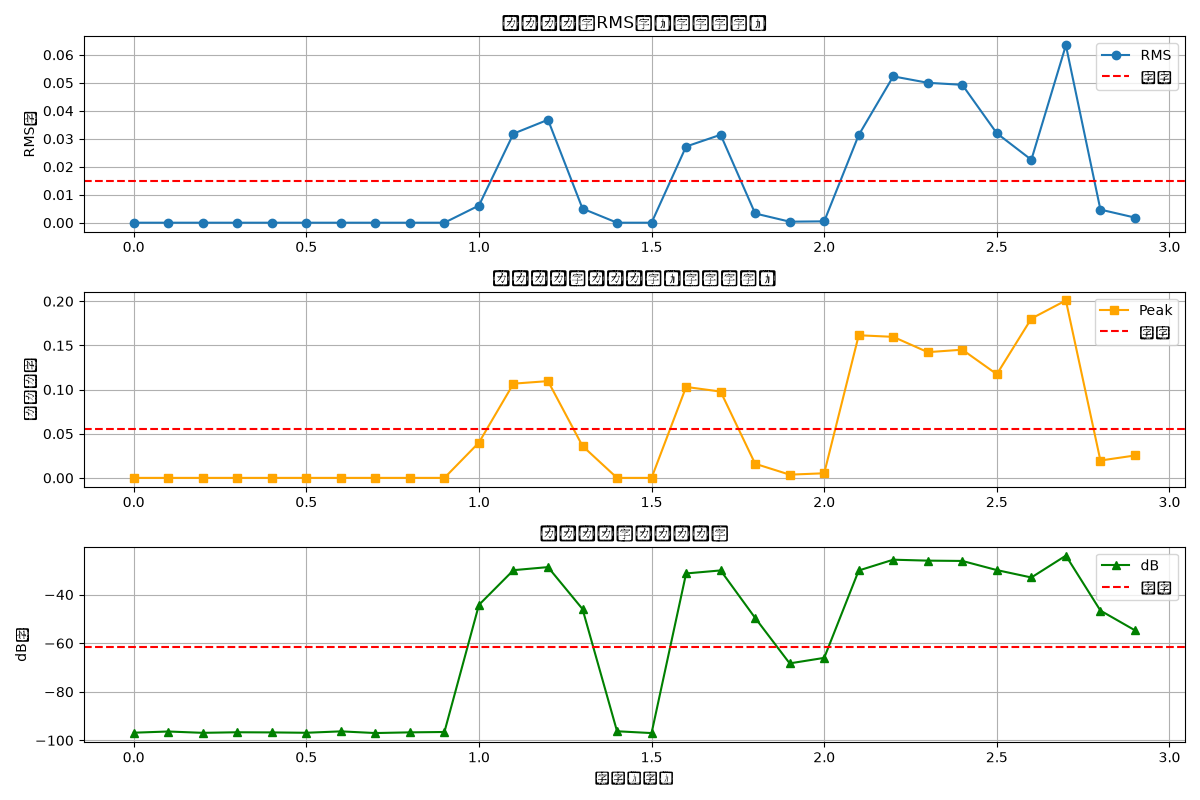
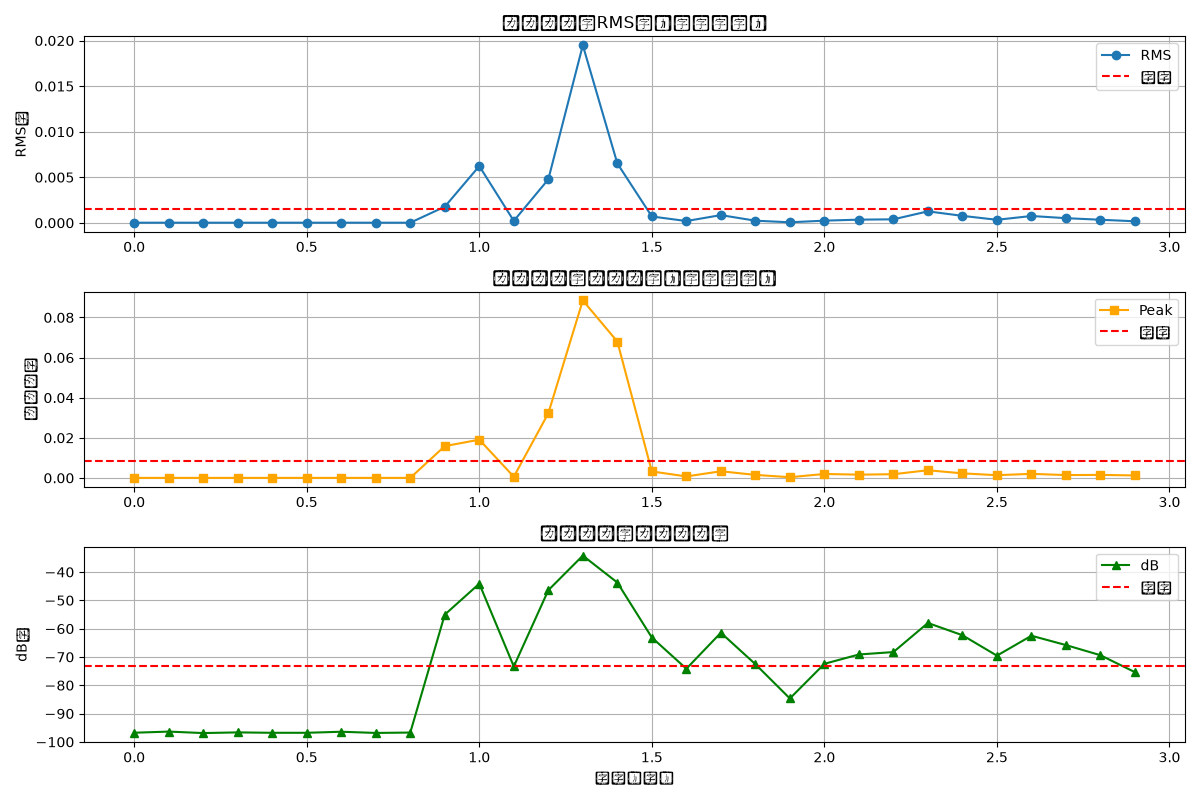
refactor(script): measure_audio_level.py の変数スコープエラー修正とログ追加

diff --git a/script/measure_audio_level.py b/script/measure_audio_level.py
@@ -5,6 +5,10 @@ import numpy as np
 import sounddevice as sd
 import soundfile as sf
 
+from pathlib import Path
+import sys
+sys.path.append(str(Path(__file__).resolve().parent.parent))
+
 from config import DEFAULT_AUDIO_CONFIG
 
 logger = logging.getLogger(__name__)
@@ -60,143 +64,133 @@ def main() -> None:
     sf.write(AUDIO_FILE, y, SR)
     logger.info("📁 録音ファイルを保存: %s", AUDIO_FILE)
 
-# ==========================
-# フレームごとの音量計算
-# ==========================
+    # ==========================
+    # フレームごとの音量計算
+    # ==========================
 
-print("=" * 60)
-print("フレーム別の音量レベル")
-print("=" * 60)
+    print("=" * 60)
+    print("フレーム別の音量レベル")
+    print("=" * 60)
 
-frame_volumes = []
-frame_peaks = []
-frame_dbs = []
+    frame_volumes = []
+    frame_peaks = []
+    frame_dbs = []
 
-for i in range(0, len(y), CHUNK_SIZE):
-    chunk = y[i : i + CHUNK_SIZE]
+    for i in range(0, len(y), CHUNK_SIZE):
+        chunk = y[i : i + CHUNK_SIZE]
 
-    if len(chunk) == 0:
-        continue
+        if len(chunk) == 0:
+            continue
 
-    # ピーク値（最大振幅）
-    peak = np.max(np.abs(chunk))
+        # ピーク値（最大振幅）
+        peak = np.max(np.abs(chunk))
 
-    # RMS（二乗平均平方根）
-    rms = np.sqrt(np.mean(chunk**2))
+        # RMS（二乗平均平方根）
+        rms = np.sqrt(np.mean(chunk**2))
 
-    # デシベル値（最大値を基準）
-    db = 20 * np.log10(rms + 1e-10)
+        # デシベル値（最大値を基準）
+        db = 20 * np.log10(rms + 1e-10)
 
-    frame_volumes.append(rms)
-    frame_peaks.append(peak)
-    frame_dbs.append(db)
+        frame_volumes.append(rms)
+        frame_peaks.append(peak)
+        frame_dbs.append(db)
 
-    time_sec = i / SR
+        time_sec = i / SR
 
-    print(f"[{time_sec:5.2f}s] RMS: {rms:.4f}  Peak: {peak:.4f}  dB: {db:7.2f}")
+        print(f"[{time_sec:5.2f}s] RMS: {rms:.4f}  Peak: {peak:.4f}  dB: {db:7.2f}")
 
-# ==========================
-# 統計情報
-# ==========================
+    # ==========================
+    # 統計情報
+    # ==========================
 
-print("\n" + "=" * 60)
-print("統計情報（全体）")
-print("=" * 60)
+    print("\n" + "=" * 60)
+    print("統計情報（全体）")
+    print("=" * 60)
 
-print(f"\n【RMS値（平均音量）】")
-print(f"  平均: {np.mean(frame_volumes):.4f}")
-print(f"  最大: {np.max(frame_volumes):.4f}")
-print(f"  最小: {np.min(frame_volumes):.4f}")
-print(f"  標準偏差: {np.std(frame_volumes):.4f}")
+    print(f"\n【RMS値（平均音量）】")
+    print(f"  平均: {np.mean(frame_volumes):.4f}")
+    print(f"  最大: {np.max(frame_volumes):.4f}")
+    print(f"  最小: {np.min(frame_volumes):.4f}")
+    print(f"  標準偏差: {np.std(frame_volumes):.4f}")
 
-print(f"\n【ピーク値（最大振幅）】")
-print(f"  平均: {np.mean(frame_peaks):.4f}")
-print(f"  最大: {np.max(frame_peaks):.4f}")
-print(f"  最小: {np.min(frame_peaks):.4f}")
+    print(f"\n【ピーク値（最大振幅）】")
+    print(f"  平均: {np.mean(frame_peaks):.4f}")
+    print(f"  最大: {np.max(frame_peaks):.4f}")
+    print(f"  最小: {np.min(frame_peaks):.4f}")
 
-print(f"\n【デシベル値】")
-print(f"  平均: {np.mean(frame_dbs):.2f} dB")
-print(f"  最大: {np.max(frame_dbs):.2f} dB")
-print(f"  最小: {np.min(frame_dbs):.2f} dB")
+    print(f"\n【デシベル値】")
+    print(f"  平均: {np.mean(frame_dbs):.2f} dB")
+    print(f"  最大: {np.max(frame_dbs):.2f} dB")
+    print(f"  最小: {np.min(frame_dbs):.2f} dB")
 
-# ==========================
-# 無音判定の推奨値
-# ==========================
+    # ==========================
+    # 無音判定の推奨値
+    # ==========================
 
-print("\n" + "=" * 60)
-print("推奨されるしきい値（TOP_DB設定値）")
-print("=" * 60)
+    print("\n" + "=" * 60)
+    print("推奨されるしきい値（TOP_DB設定値）")
+    print("=" * 60)
 
-# 最小RMSの1.5倍を目安
-silence_threshold_rms = np.min(frame_volumes) * 1.5
-# デシベル値に変換
-silence_threshold_db = 20 * np.log10(silence_threshold_rms + 1e-10)
+    # 最小RMSの1.5倍を目安
+    silence_threshold_rms = np.min(frame_volumes) * 1.5
+    # デシベル値に変換
+    silence_threshold_db = 20 * np.log10(silence_threshold_rms + 1e-10)
 
-print(f"\n無音と判定する基準:")
-print(f"  現在の最小RMS値: {np.min(frame_volumes):.4f}")
-print(f"  推奨RMS値: {silence_threshold_rms:.4f}")
-print(f"  推奨TOP_DB値: {silence_threshold_db:.2f} dB")
+    print(f"\n無音と判定する基準:")
+    print(f"  現在の最小RMS値: {np.min(frame_volumes):.4f}")
+    print(f"  推奨RMS値: {silence_threshold_rms:.4f}")
+    print(f"  推奨TOP_DB値: {silence_threshold_db:.2f} dB")
 
-print(f"\n（現在のpreprocess.pyでは TOP_DB = 20 に設定されています）")
+    # ==========================
+    # グラフ描画
+    # ==========================
 
-# ==========================
-# グラフ描画
-# ==========================
+    try:
+        import matplotlib.pyplot as plt
 
-try:
-    import matplotlib.pyplot as plt
+        fig, axes = plt.subplots(3, 1, figsize=(12, 8))
 
-    fig, axes = plt.subplots(3, 1, figsize=(12, 8))
+        time_axis = np.arange(len(frame_volumes)) * (CHUNK_SIZE / SR)
 
-    time_axis = np.arange(len(frame_volumes)) * (CHUNK_SIZE / SR)
+        axes[0].plot(time_axis, frame_volumes, marker="o", label="RMS")
+        axes[0].axhline(y=np.mean(frame_volumes), color="r", linestyle="--", label="平均")
+        axes[0].set_ylabel("RMS値")
+        axes[0].set_title("フレーム別RMS値（平均音量）")
+        axes[0].legend()
+        axes[0].grid(True)
 
-    # RMS値
-    axes[0].plot(time_axis, frame_volumes, marker="o", label="RMS")
-    axes[0].axhline(y=np.mean(frame_volumes), color="r", linestyle="--", label="平均")
-    axes[0].set_ylabel("RMS値")
-    axes[0].set_title("フレーム別RMS値（平均音量）")
-    axes[0].legend()
-    axes[0].grid(True)
+        axes[1].plot(time_axis, frame_peaks, marker="s", color="orange", label="Peak")
+        axes[1].axhline(y=np.mean(frame_peaks), color="r", linestyle="--", label="平均")
+        axes[1].set_ylabel("ピーク値")
+        axes[1].set_title("フレーム別ピーク値（最大振幅）")
+        axes[1].legend()
+        axes[1].grid(True)
 
-    # ピーク値
-    axes[1].plot(time_axis, frame_peaks, marker="s", color="orange", label="Peak")
-    axes[1].axhline(y=np.mean(frame_peaks), color="r", linestyle="--", label="平均")
-    axes[1].set_ylabel("ピーク値")
-    axes[1].set_title("フレーム別ピーク値（最大振幅）")
-    axes[1].legend()
-    axes[1].grid(True)
+        axes[2].plot(time_axis, frame_dbs, marker="^", color="green", label="dB")
+        axes[2].axhline(y=np.mean(frame_dbs), color="r", linestyle="--", label="平均")
+        axes[2].set_xlabel("時間（秒）")
+        axes[2].set_ylabel("dB値")
+        axes[2].set_title("フレーム別デシベル値")
+        axes[2].legend()
+        axes[2].grid(True)
 
-    # デシベル値
-    axes[2].plot(time_axis, frame_dbs, marker="^", color="green", label="dB")
-    axes[2].axhline(y=np.mean(frame_dbs), color="r", linestyle="--", label="平均")
-    axes[2].set_xlabel("時間（秒）")
-    axes[2].set_ylabel("dB値")
-    axes[2].set_title("フレーム別デシベル値")
-    axes[2].legend()
-    axes[2].grid(True)
+        plt.tight_layout()
+        plt.savefig("Docs/charts/audio_level_measurement.png")
+        logger.info("グラフを 'Docs/charts/audio_level_measurement.png' に保存しました")
+        plt.close()
 
-    plt.tight_layout()
-    plt.savefig("Docs/charts/audio_level_measurement.png")
-    logger.info("グラフを 'Docs/charts/audio_level_measurement.png' に保存しました")
-    plt.close()
+    except ImportError:
+        logger.warning("matplotlib がインストールされていないため、グラフ生成をスキップしました")
 
-except ImportError:
-    logger.warning("matplotlib がインストールされていないため、グラフ生成をスキップしました")
+    # ==========================
+    # 使用例
+    # ==========================
 
-
-if __name__ == "__main__":
-    main()
-
-
-# ==========================
-# 使用例
-# ==========================
-
-print("\n" + "=" * 60)
-print("結果の使い方")
-print("=" * 60)
-print(
-    """
+    print("\n" + "=" * 60)
+    print("結果の使い方")
+    print("=" * 60)
+    print(
+        """
 【保存されたファイル】
   • measured_audio.wav
     └─ 実際に録音した音声ファイル
@@ -219,4 +213,8 @@ TOP_DB が大きいほど、より少ない部分だけ除去します
 
 あなたのマイク・発声レベルに合わせて調整してください
 """.format(silence_threshold_db)
-)
+    )
+
+
+if __name__ == "__main__":
+    main()
